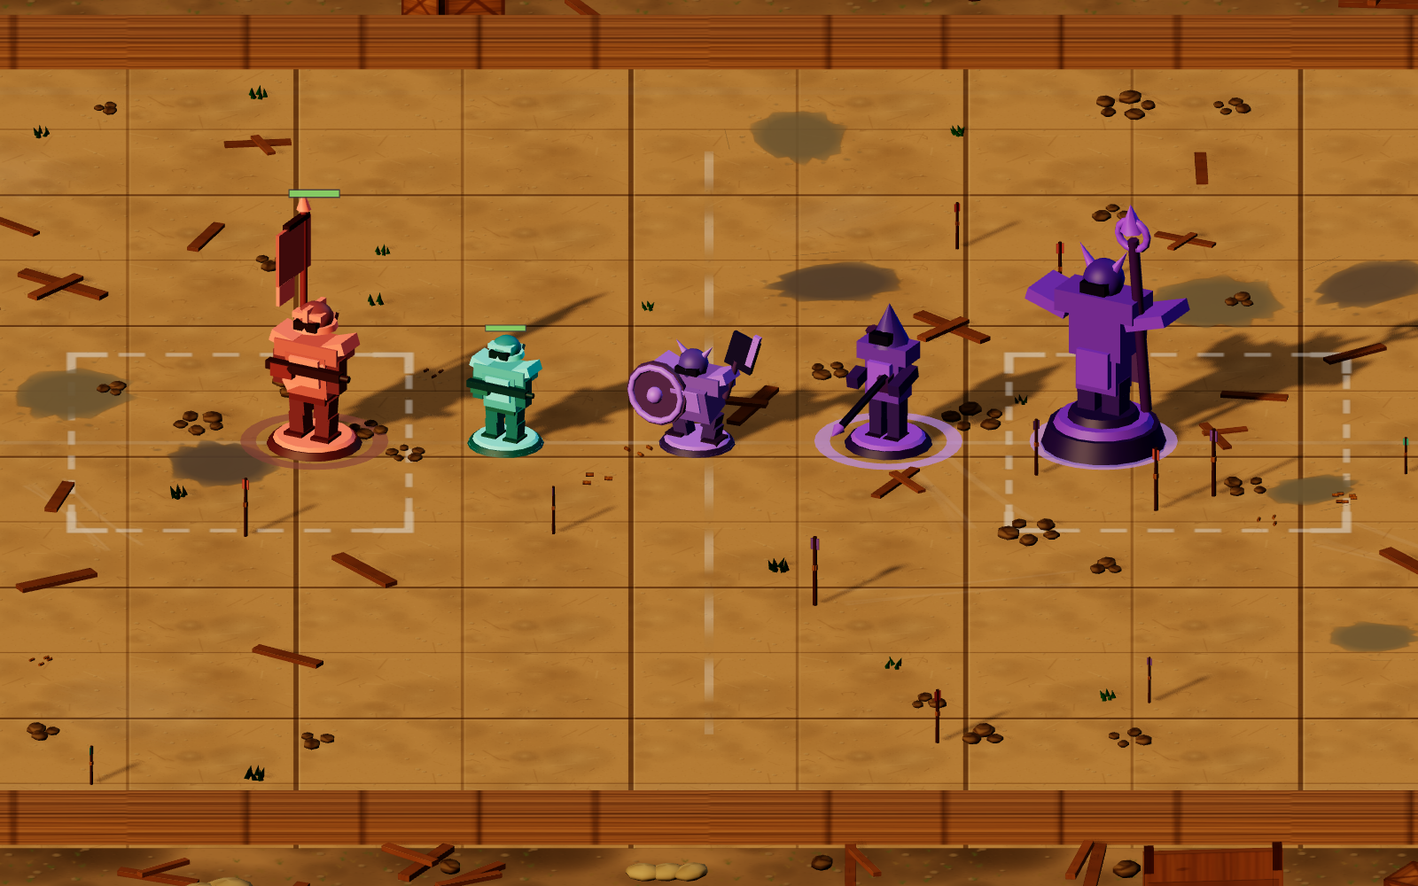
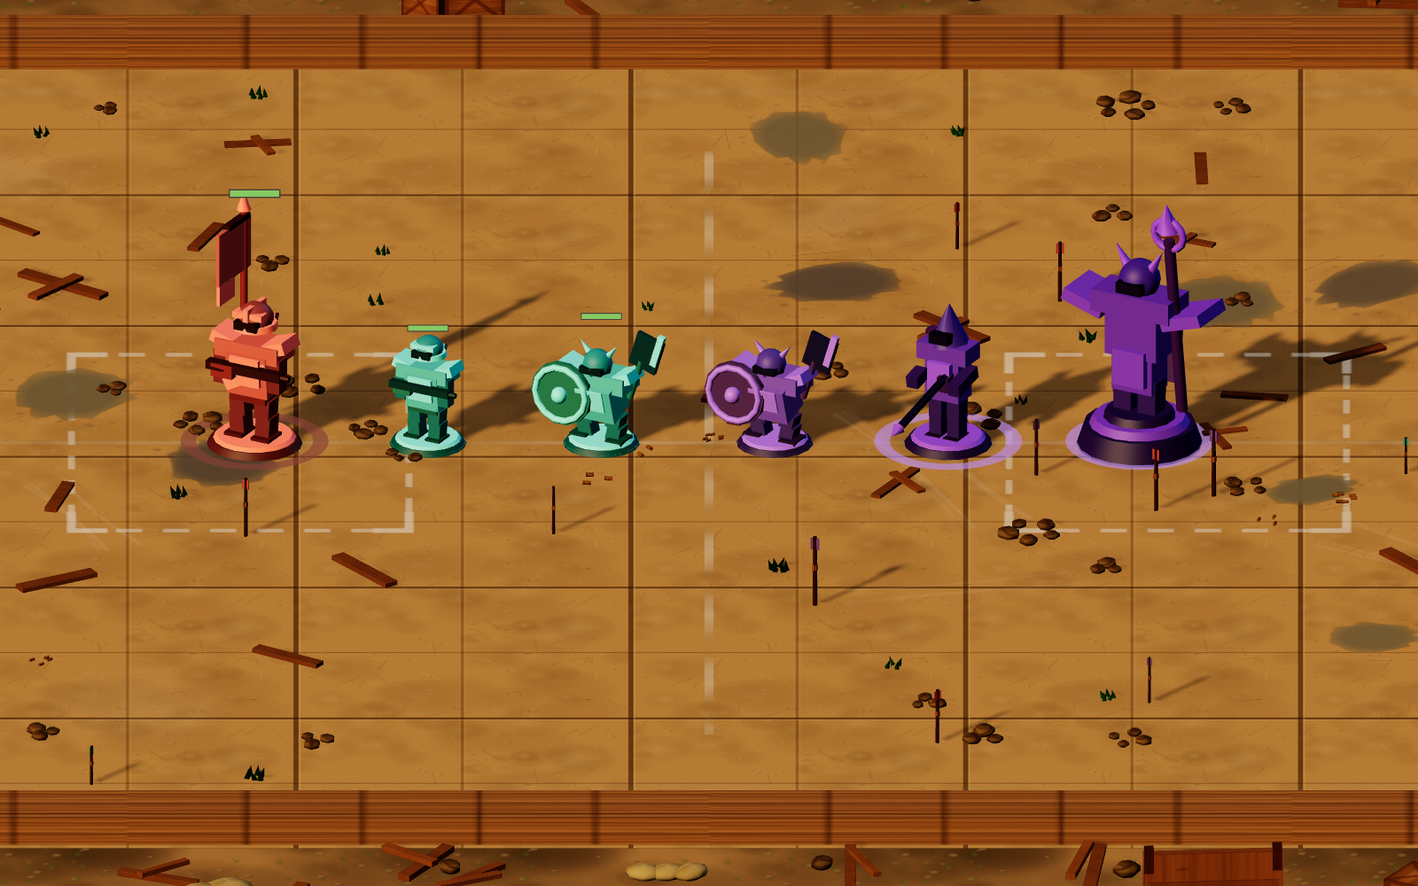
feat: the charger carries a cleaver on the board too (§1.2.1 v20)
Asked why there is still no melee weapon. There is — it just was not on
screen. §1.2.1's charger has had melee reach, melee damage and the charge
clause since v18, and on the board it was a rifleman: same body, same
rifle, and a muzzle puff at contact range. A class the player cannot see
is a class the player cannot use.

The rule was fine; the wire was cut. Class derives from the §1.4 slot,
and nothing carried that derivation out to the renderer:

  * `UnitKind` had no value for it, so `projectFriendly` published every
    soldier as `'soldier'` — and that one value is what picks the body.
  * `DamageCause` had no value for it, so the blow went out as
    `'friendly-attack'` — and that one value is what separates a swing
    from a shot. The puff-on-a-fist that §액션 피드백 forbids came from
    exactly here.

So: `kind: 'charger'`, `cause: 'charger-melee'`, and the renderer maps
the kind onto the cleaver body it already had.

`charger-melee` is deliberately NOT `friendly-melee`. That value means
§1.4.2's swing, which only the command unit can make, and three fixtures
in `battle-combat.test.ts` assert exactly that — folding the charger in
would leave all three passing for the wrong reason.

Class is still never stored (§1.17). The projection derives it from the
slot through the same function the simulation derives it from.

One thing changed that was not part of the gap. `SCRAP_TINTS` was keyed
by archetype and held two colours: warm paper for command/soldier, purple
[…]

Changed region(s): [[0.125, 0.186, 1.0, 0.527]]

diff --git a/prototype/src/renderers/three-hybrid/hybrid-renderer.ts b/prototype/src/renderers/three-hybrid/hybrid-renderer.ts
@@ -576,13 +576,18 @@ const MUZZLE_OFFSETS: Readonly<Record<MiniatureArchetype, readonly [number, numb
 }
 // Pooled particle tints, allocated once. `ParticlePool.spawn` copies out of them, so no
 // colour object is ever created per event.
-const SCRAP_TINTS: Readonly<Record<MiniatureArchetype, THREE.Color>> = {
-  command: new THREE.Color(0xf0e2c6),
-  soldier: new THREE.Color(0xf0e2c6),
-  melee: new THREE.Color(0xc9aef0),
-  shooter: new THREE.Color(0xc9aef0),
-  elite: new THREE.Color(0xe6cdff),
+//
+// KEYED BY FACTION, NOT BY BODY. The old table said `MiniatureArchetype` and held two colours:
+// warm paper for `command`/`soldier`, purple for `melee`/`shooter`/`elite` — which is the
+// friendly/hostile split spelled in archetype names, and it only read as a body table for as
+// long as no friendly shared a body with a hostile. §1.2.1's charger shares `melee` with the
+// raider, so under the old key a teal trooper would have burst into purple scraps.
+const SCRAP_TINTS: Readonly<Record<'friendly' | 'hostile', THREE.Color>> = {
+  friendly: new THREE.Color(0xf0e2c6),
+  hostile: new THREE.Color(0xc9aef0),
 }
+/** The elite is the one hostile whose scraps are its own — brighter, to match its bulk. */
+const ELITE_SCRAP_TINT = new THREE.Color(0xe6cdff)
 // --- Health gauge -------------------------------------------------------------------------
 // The fourth and last mesh a unit is allowed. §체력 게이지 of the visuals spec: friendlies are
 // always shown because the squad's state is the player's judgement material, hostiles only
@@ -2074,8 +2079,9 @@ class ThreeHybridRenderer implements HybridGameRenderer {
   private spawnDeathBurst(unit: RenderUnit, delayTicks: number, at: number = this.clock): void {
     const fx = this.fx
     if (!fx) return
-    const archetype = miniatureArchetype(unit)
-    const tint = SCRAP_TINTS[archetype]
+    const tint = unit.kind === 'elite'
+      ? ELITE_SCRAP_TINT
+      : SCRAP_TINTS[unit.team === 'enemy' ? 'hostile' : 'friendly']
     const burstAt = at + delayTicks
     const count = unit.kind === 'elite' ? 22 : 14
     for (let index = 0; index < count; index += 1) {
@@ -2812,6 +2818,7 @@ function miniatureArchetype(unit: RenderUnit): MiniatureArchetype {
   switch (unit.kind) {
     case 'elite': return 'elite'
     case 'commander': return 'command'
+    case 'charger': return 'melee'
     case 'enemy': return 'melee'
     case 'enemy-commander': return 'shooter'
     default: return unit.team === 'enemy' ? 'melee' : 'soldier'

diff --git a/prototype/tests/battle/battle-combat.test.ts b/prototype/tests/battle/battle-combat.test.ts
@@ -33,6 +33,7 @@ import {
 import { advanceTargeting, selectFriendlyTargetId } from '../../src/core/battle/targeting'
 import { advanceEnemyMovement, isEnemyEngaged } from '../../src/core/battle/enemy'
 import {
+  CHARGER_IDS,
   COMMANDER_ID,
   RIFLEMAN_IDS,
   createEnemy,
@@ -774,6 +775,34 @@ describe('§1.4.2 the command unit strikes in melee inside its melee range', () 
       },
     ])
     expect(commanderOf(closer).attackCooldown).toBe(COMMANDER_ATTACK_INTERVAL)
+  })
+
+  it('marks a charger\u2019s blow as a cleaver\u2019s and a rifleman\u2019s as a rifle\u2019s, in one tick', () => {
+    // THE REGRESSION THIS FILE MISSED FOR FOUR BATCHES. §1.2.1's charger had melee reach and melee
+    // damage from the day it landed, and every fixture that measured it measured a number — so
+    // nothing noticed that its blow went out with `cause: 'friendly-attack'`, the rifle's value.
+    // The renderer reads `cause` and nothing else to pick a swing over a shot, so on the board the
+    // whole class carried a rifle and puffed smoke at contact range. It was a melee class in every
+    // respect the simulation could see and none the player could.
+    //
+    // Both bodies are in the SAME tick against the SAME target, so the slot is the only variable:
+    // whatever separates these two causes cannot be distance, health, target or timing.
+    const rifleId = RIFLEMAN_IDS[0]
+    const chargerId = CHARGER_IDS[0]
+    const state = fixture({ friendlies: {
+      [rifleId]: { x: 28, y: 16 },
+      [chargerId]: { x: 28, y: 16.5 },
+    } })
+    state.enemies = [createEnemy(state, 101, 'melee', { x: 28.4, y: 16.2 })]
+
+    advanceTargeting(state)
+    const causes = new Map(resolveFriendlyAttacks(state).map((event) => [event.attackerId, event.cause]))
+    expect(causes.get(chargerId)).toBe('charger-melee')
+    expect(causes.get(rifleId)).toBe('friendly-attack')
+    // And it is a THIRD value, not §1.4.2's. `friendly-melee` names the command unit's swing and
+    // three fixtures in this file assert only the command unit can make one; folding the charger
+    // into it would leave each of them passing for the wrong reason.
+    expect([...causes.values()]).not.toContain('friendly-melee')
   })
 
   it('swings at the elite at melee range, which is the other half of the same clause', () => {

diff --git a/prototype/tests/battle-view/battle-action-events.test.ts b/prototype/tests/battle-view/battle-action-events.test.ts
@@ -3,7 +3,7 @@ import { describe, expect, it } from 'vitest'
 import { createBattle } from '../../src/core/battle/battle'
 import { digestBattleState } from '../../src/core/battle/digest'
 import { stageConfigOf } from '../../src/core/battle/stages'
-import { COMMANDER_ID, createEnemy, createInitialBattleState } from '../../src/core/battle/state'
+import { CHARGER_IDS, COMMANDER_ID, createEnemy, createInitialBattleState } from '../../src/core/battle/state'
 import type { BattleState, DamageEvent } from '../../src/core/battle/types'
 import { projectBattleSnapshot, type BattleTickEvents } from '../../src/core/battle-view/snapshot'
 
@@ -112,7 +112,7 @@ describe('battle-view: this tick\'s blows, as display events (§액션 피드백
     expect(action!.targetId).toBe(COMMANDER_ID)
   })
 
-  it('splits the five causes into the three things they look like', () => {
+  it('splits the six causes into the three things they look like', () => {
     const state = stateAt()
     state.enemies.push(createEnemy(state, 101, 'melee', { x: 29, y: 16 }))
     state.enemies.push(createEnemy(state, 102, 'shooter', { x: 34, y: 16 }))
@@ -133,6 +133,9 @@ describe('battle-view: this tick\'s blows, as display events (§액션 피드백
     // measured, not assumed: `scripts/mutate.mjs`'s "paint a muzzle puff on the commander's
     // swing" was MISSED by the whole suite until this assertion existed.
     expect(kindOf(damage({ side: 'friendly', attackerId: COMMANDER_ID, targetId: 101, cause: 'friendly-melee' }))).toBe('melee')
+    // §1.2.1's charger, and the same defect one class over. Its body is now the cleaver
+    // miniature, so a muzzle puff on it is visibly a lie about which weapon landed the blow.
+    expect(kindOf(damage({ side: 'friendly', attackerId: CHARGER_IDS[0], targetId: 101, cause: 'charger-melee' }))).toBe('melee')
   })
 
   it('scales the blow by what fraction of the target it took', () => {

diff --git a/prototype/tests/diorama-shots.spec.ts b/prototype/tests/diorama-shots.spec.ts
@@ -255,7 +255,7 @@ test('captures a unit standing inside the field clutter', async ({ page }) => {
 })
 
 /**
- * The five class silhouettes, side by side on one board.
+ * The six class silhouettes, side by side on one board.
  *
  * §미니어처 디테일 asks for the class to be readable from the silhouette alone, and a mid-fight
  * screenshot is the worst possible evidence for that: the bodies overlap, they face wherever
@@ -266,7 +266,7 @@ test('captures a unit standing inside the field clutter', async ({ page }) => {
  * The snapshot is hand-built and carries display inputs only (`kind`, `hp01`, `state`). It makes
  * no claim about the simulation and cannot reach it.
  */
-test('captures the five class silhouettes lined up', async ({ page }) => {
+test('captures the six class silhouettes lined up', async ({ page }) => {
   test.setTimeout(120_000)
   await page.goto('?lab=renderers')
   await page.waitForTimeout(400)
@@ -292,11 +292,15 @@ test('captures the five class silhouettes lined up', async ({ page }) => {
       tick: 40,
       elapsedMs: 1333,
       units: [
-        body(1, 'commander', 'scarlet', -6.6),
-        body(2, 'soldier', 'teal', -3.4),
-        body(3, 'enemy', 'enemy', -0.2),
-        body(4, 'enemy-commander', 'enemy', 3),
-        body(5, 'elite', 'enemy', 6.6),
+        body(1, 'commander', 'scarlet', -7.6),
+        body(2, 'soldier', 'teal', -4.7),
+        // §1.2.1's charger. It shares the cleaver body with the raider two places right, and the
+        // paint is the whole of the difference — which is the same read the board already asks a
+        // player to make between a teal trooper and a scarlet one.
+        body(3, 'charger', 'teal', -1.8),
+        body(4, 'enemy', 'enemy', 1.1),
+        body(5, 'enemy-commander', 'enemy', 4),
+        body(6, 'elite', 'enemy', 7.2),
       ],
       projectiles: [],
       effects: [],

diff --git a/prototype/src/core/battle/attacks.ts b/prototype/src/core/battle/attacks.ts
@@ -33,7 +33,7 @@ import { COMMANDER_MELEE_RANGE } from './constants'
 import { stageOf } from './stages'
 import { enemyAttackIntervalOf, enemyDamageOf } from './enemy'
 import { enemiesById, findEnemy, findFriendly, friendliesById } from './state'
-import { attackDamageOf, attackIntervalOf, meleeDamageOf, meleeIntervalOf } from './targeting'
+import { attackDamageOf, attackIntervalOf, isCharger, meleeDamageOf, meleeIntervalOf } from './targeting'
 import type { BattleState, DamageEvent, EnemyUnit, FriendlyUnit } from './types'
 
 export type { DamageCause, DamageEvent, DamageSide } from './types'
@@ -146,13 +146,19 @@ export function resolveFriendlyAttacks(state: BattleState): DamageEvent[] {
     const target = findEnemy(state, unit.targetId)
     if (!target || target.life !== 'standing') continue
 
+    // Two independent questions, and only the first one changes the blow's numbers. §1.4.2 asks
+    // whether the COMMAND unit swings, which replaces amount, cause and cooldown together.
+    // §1.2.1's charger already has its own amount and cooldown — `attackDamageOf` and
+    // `attackIntervalOf` branch on the class — so all that is left to say is that the blow it
+    // lands is a cleaver's. That is a `cause` and nothing else; the class was already melee in
+    // every respect the simulation could see, and in none the player could.
     const melee = isCommandMeleeStrike(state, unit, target)
     events.push({
       side: 'friendly',
       attackerId: unit.id,
       targetId: target.id,
       amount: melee ? meleeDamageOf(state) : attackDamageOf(state, unit),
-      cause: melee ? 'friendly-melee' : 'friendly-attack',
+      cause: melee ? 'friendly-melee' : isCharger(state, unit) ? 'charger-melee' : 'friendly-attack',
     })
     unit.attackCooldown = melee ? meleeIntervalOf(state) : attackIntervalOf(state, unit)
   }

diff --git a/prototype/src/core/battle-view/snapshot.ts b/prototype/src/core/battle-view/snapshot.ts
@@ -48,6 +48,7 @@ import { DOWNED_TICKS, SOLDIER_RANGE } from '../battle/constants'
 import { stageConfigOf, type StageId } from '../battle/stages'
 import { rescueCandidateId } from '../battle/rescue'
 import { enemiesById, friendliesById } from '../battle/state'
+import { findAssignment, isChargerSlot } from '../battle/formation'
 import type {
   BattleState,
   DamageCause,
@@ -142,12 +143,24 @@ function friendlyState(
   return unit.targetId === null ? 'idle' : 'attacking'
 }
 
+/**
+ * §1.2.1's class, derived exactly where the simulation derives it — off the slot, never stored.
+ *
+ * The command unit is neither class (§1.4 gives it no slot), and a standing unit that lost its
+ * slot to §1.5's succession is a rifleman, which is `isChargerSlot(null)`'s answer already.
+ */
+function friendlyKind(state: Readonly<BattleState>, unit: Readonly<FriendlyUnit>): RenderUnit['kind'] {
+  if (unit.id === state.commandUnitId) return 'commander'
+  const assignment = findAssignment(state.slotAssignments, unit.id)
+  return isChargerSlot(assignment ? assignment.slotIndex : null) ? 'charger' : 'soldier'
+}
+
 function projectFriendly(state: Readonly<BattleState>, unit: Readonly<FriendlyUnit>): RenderUnit {
   const commands = unit.id === state.commandUnitId
   const squad = commands ? COMMAND_SQUAD : SQUAD
   return {
     id: unit.id,
-    kind: commands ? 'commander' : 'soldier',
+    kind: friendlyKind(state, unit),
     team: squad,
     squad,
     x: unit.position.x,
@@ -249,6 +262,7 @@ export type BattleTickEvents = {
 const ACTION_KIND_BY_CAUSE: Readonly<Record<DamageCause, RenderActionEventKind>> = {
   'friendly-attack': 'shot',
   'friendly-melee': 'melee',
+  'charger-melee': 'melee',
   'shooter-shot': 'shot',
   'melee-contact': 'melee',
   'elite-blast': 'blast',

diff --git a/prototype/tests/battle-view/battle-snapshot.test.ts b/prototype/tests/battle-view/battle-snapshot.test.ts
@@ -7,7 +7,12 @@ import {
 } from '../../src/core/battle/constants'
 import { stageConfigOf } from '../../src/core/battle/stages'
 import { digestBattleState } from '../../src/core/battle/digest'
-import { FORMATION_MAX_SLOT_RADIUS } from '../../src/core/battle/formation'
+import {
+  CHARGER_SLOT_INDICES,
+  FORMATION_MAX_SLOT_RADIUS,
+  findAssignment,
+  isChargerSlot,
+} from '../../src/core/battle/formation'
 import { COMMANDER_ID, ELITE_ID, createEnemy, createInitialBattleState } from '../../src/core/battle/state'
 import type { BattleState } from '../../src/core/battle/types'
 import {
@@ -45,8 +50,15 @@ describe('battle-view: the display-only projection (§6)', () => {
 
     const commanders = snapshot.units.filter((unit) => unit.kind === 'commander')
     const soldiers = snapshot.units.filter((unit) => unit.kind === 'soldier')
+    const chargers = snapshot.units.filter((unit) => unit.kind === 'charger')
     expect(commanders).toHaveLength(1)
-    expect(soldiers).toHaveLength(15)
+    // §1.2.1 splits the fifteen by slot, so the count the projection owes is the SPLIT, not the
+    // total: front rank cleavers, everyone behind them rifles, and nobody counted twice.
+    expect(chargers).toHaveLength(CHARGER_SLOT_INDICES.length)
+    expect(soldiers).toHaveLength(15 - CHARGER_SLOT_INDICES.length)
+    expect(chargers.every((unit) => isChargerSlot(
+      findAssignment(stateAt().slotAssignments, unit.id)?.slotIndex ?? null,
+    ))).toBe(true)
     expect(commanders[0].id).toBe(COMMANDER_ID)
     // The renderer's diorama presentation is gated on `activeSquad`, and the command
     // unit is the body that wears it — the pulsing ring is "the body you are driving".

diff --git a/prototype/src/core/battle/types.ts b/prototype/src/core/battle/types.ts
@@ -136,7 +136,13 @@ export type EnemyUnit = {
 export type DamageSide = 'friendly' | 'enemy'
 
 /**
- * Which weapon produced the blow. FIVE VALUES, one per thing that can hit something.
+ * Which weapon produced the blow. SIX VALUES, one per thing that can hit something.
+ *
+ * `charger-melee` is §1.2.1's. It is NOT `friendly-melee`: that value names §1.4.2's rule, which
+ * only the command unit can satisfy, and three tests assert exactly that. Folding the charger
+ * into it would make each of them pass for the wrong reason. The two are separate weapons that
+ * happen to share a hand, and the renderer wants them separate anyway — a charger's swing is a
+ * cleaver's, not the command unit's.
  *
  * `friendly-melee` is §1.4.2's (batch N): the command unit inside `COMMANDER_MELEE_RANGE` of a
  * `shooter` or the `elite` (v13 — a melee-class target gets the ranged attack). It is
@@ -151,6 +157,7 @@ export type DamageSide = 'friendly' | 'enemy'
 export type DamageCause =
   | 'friendly-attack'
   | 'friendly-melee'
+  | 'charger-melee'
   | 'melee-contact'
   | 'shooter-shot'
   | 'elite-blast'

diff --git a/prototype/tests/battle/battle-tick.test.ts b/prototype/tests/battle/battle-tick.test.ts
@@ -63,14 +63,15 @@ const NO_COMMANDS: BattleCommand[] = []
 /**
  * The three producers of §1.16's damage list, as the rank they must appear in.
  *
- * Five causes, three ranks: §1.4.2's `friendly-melee` comes out of the SAME step as
- * `friendly-attack` (the 아군 공격 row), which is the point of the rule — it is a second weapon
- * on an existing step, not a new step — so it shares rank 1 exactly as the two enemy classes
- * share rank 2.
+ * Six causes, three ranks: §1.4.2's `friendly-melee` and §1.2.1's `charger-melee` come out of
+ * the SAME step as `friendly-attack` (the 아군 공격 row), which is the point of both rules — each
+ * is a second weapon on an existing step, not a new step — so all three share rank 1 exactly as
+ * the two enemy classes share rank 2.
  */
 const SOURCE_RANK: Readonly<Record<DamageCause, number>> = {
   'friendly-attack': 1,
   'friendly-melee': 1,
+  'charger-melee': 1,
   'melee-contact': 2,
   'shooter-shot': 2,
   'elite-blast': 3,

diff --git a/prototype/src/core/types.ts b/prototype/src/core/types.ts
@@ -1,6 +1,14 @@
 export type Team = 'teal' | 'scarlet' | 'enemy'
 export type Squad = Exclude<Team, 'enemy'>
-export type UnitKind = 'commander' | 'soldier' | 'enemy-commander' | 'enemy' | 'elite'
+/**
+ * The class signal, and the ONLY one the renderer gets — it draws a body per value here.
+ *
+ * `charger` is §1.2.1's front rank. It was a simulation-only class for four batches: reach 1.1,
+ * damage paid on the tick it moved, and on the board a rifleman, because this union had no value
+ * for it and `projectFriendly` had nothing to say. A class the player cannot see is a class the
+ * player cannot use, so the union carries it now.
+ */
+export type UnitKind = 'commander' | 'soldier' | 'charger' | 'enemy-commander' | 'enemy' | 'elite'
 export type UnitState =
   | 'idle'
   | 'moving'

diff --git a/docs/codex-usage-log.md b/docs/codex-usage-log.md
@@ -534,3 +534,14 @@
 - 검증 근거: RED는 두 번째 `enterUpgradeIfEligible`가 offered order를 재shuffle한 failure였다. GREEN focused progression+determinism+combat `39/39`, full Vitest `128/128`, TypeScript·Vite build, `git diff --check`를 직접 실행했다. Vite의 기존 500 kB chunk warning만 출력됐다.
 - 커밋 계보: Task 6 initial `cc68c9c` → fix implementation `453ff24`.
 - 다음 단계: 후속 Task 7은 phase 3 normal request stream order와 이 isolation contract를 그대로 유지한다.
+
+## 2026-08-24
+
+### 돌격병 표시 (§1.2.1 v20) — 시뮬레이션에만 있던 병종을 판 위에 올린다
+
+- 목표: 사람이 "왜 아직도 근접 무기가 없냐"고 물어 확인한 결함을 고친다. §1.2.1의 돌격병은 v18부터 사거리·피해·돌격 조항이 모두 동작하고 있었으나, 판 위에서는 소총병과 같은 몸에 같은 총이었고 접촉 거리에서 총구 연기를 뿜었다.
+- 진단: 규칙이 아니라 경로가 끊겨 있었다. 병종은 §1.4 슬롯에서 파생되는데 그 파생을 렌더러까지 나르는 값이 없었다 — `UnitKind`에 값이 없어 `projectFriendly`가 전원을 `'soldier'`로 투영했고(렌더러는 이 값으로 몸을 고른다), `DamageCause`에 값이 없어 타격이 `'friendly-attack'`으로 나갔다(렌더러는 이 값으로 베기와 사격을 가른다).
+- 주요 산출물: `UnitKind`에 `'charger'`, `DamageCause`에 `'charger-melee'`, `snapshot.ts`의 `friendlyKind` 파생(§1.17대로 저장하지 않는다), 렌더러의 `charger → melee` 조형 매핑, 그리고 `SCRAP_TINTS`를 조형 키에서 진영 키로 교체. 마지막 것은 그 표가 원래 진영 팔레트를 조형 이름으로 적어둔 것이었기 때문이다 — 아군이 적과 몸을 공유하는 순간 teal 병사가 보라색 종잇조각으로 터진다.
+- 검증 근거: `'charger-melee'`는 §1.4.2의 `'friendly-melee'`와 별도 값으로 두었다. 후자는 지휘 유닛의 베기를 뜻하고 세 fixture가 "지휘 유닛만 만들 수 있다"를 검사하므로, 합쳤다면 그 셋이 전부 엉뚱한 이유로 통과했을 것이다. 한 tick·한 대상에서 돌격병과 소총병의 `cause`를 함께 재는 회귀 테스트를 추가했고, 조형 6종 라인업 스크린샷(`artifacts/shot-class-silhouettes.png`)과 실전 캡처(`artifacts/shot-mid-fight.png`)로 눈으로 확인했다. Vitest `790/790`, 돌연변이 `79/79`(새 3건은 끊긴 고리 하나씩 — 타격을 사격으로 표시 / 앞열을 소총병으로 투영 / 돌격병의 베기에 총구 연기), 빌드 통과.
+- 알려진 실패: `tests/hybrid-renderer.spec.ts`의 지휘 유닛/병사 화면 높이 비 가정(`≤ 1.375`, 실측 `3`)이 이 작업 이전부터 깨져 있다. `git stash`로 baseline을 재서 확인했고 이번 변경과 무관하다. `battle-play`·`gameplay-play`의 장시간 조작 테스트 2건은 전체 병렬 실행에서만 실패하고 단독 실행에서는 통과한다(부하 민감).
+- 다음 단계: 위 화면 높이 비 실패를 진단한다. 테스트를 통과시키는 방향이 아니라 어느 쪽이 참인지부터 정한다.

diff --git a/docs/superpowers/specs/2026-08-16-commander-battle-design.md b/docs/superpowers/specs/2026-08-16-commander-battle-design.md
@@ -35,7 +35,7 @@
 
 - HP는 하네스가 정한다(§2). 무기·이동 수치는 고정이다.
 
-### 1.2.1 아군 병종 — 돌격병 (v18)
+### 1.2.1 아군 병종 — 돌격병 (v18, 표시는 v20)
 
 병사 15명 중 **§1.4 진형 앞열의 5칸이 돌격병**이고 나머지 10칸이 소총병이다.
 
@@ -74,6 +74,23 @@
 | **v18 돌격병** | `7/8` | **0** | **1** ❌ | **0** | `8/8` |
 
 **축은 맞았다** — v16이 못 하던 "경로를 살리면서 무입력·캠핑을 0으로 두는 것"을 한다. **그러나 I8이 `1/8`이고 §3은 그것을 완화 불가로 정한다.**
+
+**표시 (v20) — 병종은 보이는 것까지가 병종이다.**
+
+v18~v19 동안 돌격병은 **시뮬레이션에만 존재했다.** 사거리도 피해도 돌격 조항도 전부 돌아가고 있었는데, 판 위에서는 소총병과 **같은 몸에 같은 총**이었고 접촉 거리에서 **총구 연기를 뿜었다**. 사람이 "왜 아직도 근접 무기가 없냐"고 물어서 알았다.
+
+원인은 규칙이 아니라 **경로가 끊긴 것**이다. 병종은 §1.4의 슬롯에서 파생되는데, 그 파생을 렌더러까지 나르는 값이 하나도 없었다:
+
+1. `UnitKind`에 값이 없어 `projectFriendly`가 전원을 `'soldier'`로 투영했다. 렌더러는 이 값 하나로 몸을 고른다.
+2. `DamageCause`에 값이 없어 돌격병의 타격이 `'friendly-attack'`으로 나갔다. 렌더러는 이 값 하나로 **베기와 사격을 가른다** — §액션 피드백이 금지하는 "주먹에 총구 연기"가 여기서 나왔다.
+
+**규칙:** 돌격병은 `kind: 'charger'`로 투영되고, 그 타격은 `cause: 'charger-melee'`로 나간다.
+
+- `'charger-melee'`는 §1.4.2의 `'friendly-melee'`와 **다른 값이다.** 그 값은 지휘 유닛의 베기를 뜻하고 세 개의 fixture가 "지휘 유닛만 만들 수 있다"를 검사한다 — 합치면 그 셋이 전부 엉뚱한 이유로 통과한다.
+- 몸은 적 근접병과 **같은 조형을 공유하고 도색만 다르다.** 판이 이미 아군 teal과 아군 scarlet을 도색으로만 가르므로 같은 읽기다.
+- 계급은 여전히 **저장하지 않는다** (§1.17). 투영이 §1.4의 슬롯에서 매번 파생하며, 이는 시뮬레이션이 파생하는 곳과 같은 함수다.
+
+**이 조항은 실측 가능하다.** `mutate.mjs`의 세 돌연변이(타격을 사격으로 표시 / 앞열을 소총병으로 투영 / 돌격병의 베기에 총구 연기)가 그 세 고리 하나씩이고, 셋 다 잡힌다.
 
 **알려진 실패로 안고 간다.** 도망은 무언가를 지나쳐 달릴 때마다 2번 절을 만족한다. 남은 후보는 "등을 돌린 상태가 몇 tick 이상 이어질 것"(이력이 필요하다 — 새 상태 필드) 또는 리쉬 반경을 축으로 쓰는 것이다. 이 조항은 **사람이 플레이해 판정할 때까지** 그 실패를 명시한 채 유지되며, `policy-run.test.ts`가 `1`을 핀해 더 나빠지면 실패한다.
 
